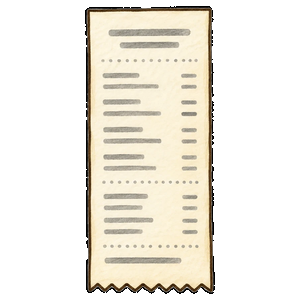
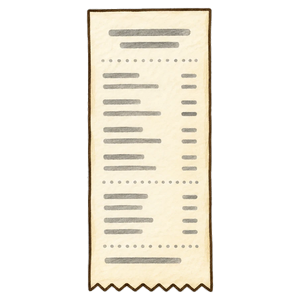
Тренажёр: Prepare 4, receipt обычной мягкой вырезкой
Claude-Session: https://claude.ai/code/session_01TVzVUEdGkYTyD8nN3ioNLY

Changed region(s): [[0.27, 0.0, 0.72, 0.99]]

diff --git a/tools/vocab-images/p4/cut.py b/tools/vocab-images/p4/cut.py
@@ -84,7 +84,7 @@ def erase_glued_captions(path):
     Image.fromarray(arr).save(out); return out
 
 # Предметы с нарисованной мягкой тенью рядом: оставляем только то, что внутри контура
-OUTLINE_ONLY = {'receipt'}
+OUTLINE_ONLY = set()  # receipt перерисован без тени, обычная вырезка чище
 
 def outline_only(png):
     from scipy.ndimage import binary_dilation, binary_erosion, binary_fill_holes
